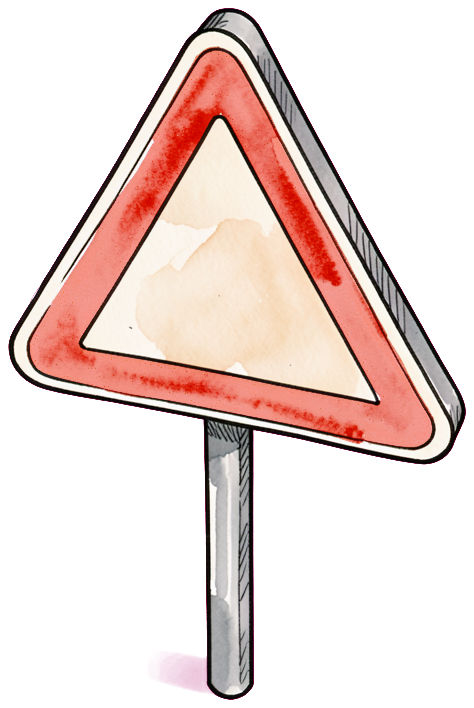
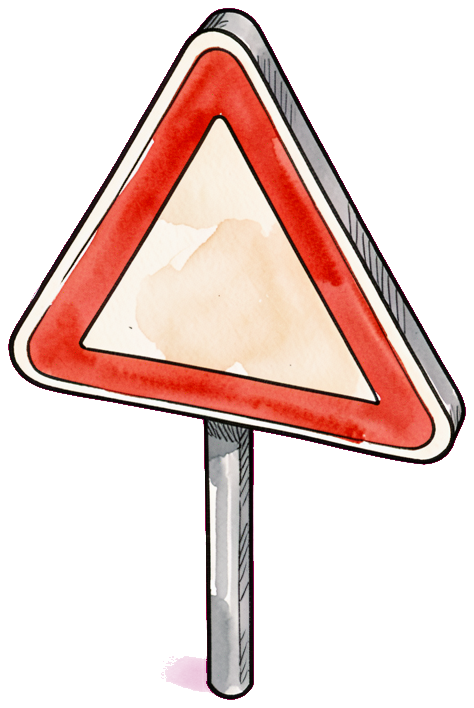
feat(driving): flatbed front-3/4 views, red/blue tractors, solid sign faces
- pickup + box truck now have front-3/4 'face' views for oncoming traffic
  (claymation, cab leading); their old top-down sprites become the -rear
  (same-direction) views. Wired via the front/rear split + preload.
- tractor now spawns in green, red or blue (free recolour of the green
  sprite via a brightness ramp; front + rear each).
- solidified the speed + warning sign faces so the green verge no longer
  shows through them.

Changed region(s): [[0.0591, 0.0621, 0.9156, 0.6525], [0.3249, 0.9322, 0.3544, 0.9633]]

diff --git a/apps/game/src/scenes/PtvDriveScene.ts b/apps/game/src/scenes/PtvDriveScene.ts
@@ -46,7 +46,7 @@ const TRAFFIC_SPRITE_KEYS: Record<TrafficKind, string[]> = {
   car: ['vehicle-topdown-car-red', 'vehicle-topdown-car-blue', 'vehicle-topdown-car-yellow'],
   pickup: ['vehicle-topdown-pickup'],
   truck: ['vehicle-topdown-truck'],
-  tractor: ['vehicle-topdown-tractor'],
+  tractor: ['vehicle-topdown-tractor', 'vehicle-topdown-tractor-red', 'vehicle-topdown-tractor-blue'],
   motorbike: ['vehicle-topdown-motorbike'],
   emergency: ['vehicle-topdown-ambulance'],
   bus: ['vehicle-topdown-bus'],
@@ -289,7 +289,7 @@ export class PtvDriveScene extends Phaser.Scene {
     tryImg('vehicle-topdown-henry', 'vehicle-topdown-henry.png');
     tryImg('site-arc-building', 'site-arc-building.png');
     tryImg('site-gravel', 'site-gravel.png');
-    for (const n of ['car-red', 'car-blue', 'car-yellow', 'pickup', 'truck', 'tractor', 'motorbike', 'ambulance', 'bus', 'binlorry', 'trikey', 'bea', 'big-tilly', 'spark']) {
+    for (const n of ['car-red', 'car-blue', 'car-yellow', 'pickup', 'truck', 'tractor', 'tractor-red', 'tractor-blue', 'motorbike', 'ambulance', 'bus', 'binlorry', 'trikey', 'bea', 'big-tilly', 'spark']) {
       tryImg(`vehicle-topdown-${n}`, `vehicle-topdown-${n}.png`);
     }
     for (const n of ['empty', '1', '2', '3', '4', '5']) {
@@ -297,7 +297,7 @@ export class PtvDriveScene extends Phaser.Scene {
     }
     // Rear ("driving away") views for the front-heavy vehicles. Missing files
     // fail softly, so this list can run ahead of the art being rendered.
-    for (const n of ['henry', 'car-red', 'car-blue', 'car-yellow', 'tractor', 'ambulance', 'bus', 'trikey', 'big-tilly']) {
+    for (const n of ['henry', 'car-red', 'car-blue', 'car-yellow', 'tractor', 'tractor-red', 'tractor-blue', 'ambulance', 'bus', 'trikey', 'big-tilly', 'pickup', 'truck']) {
       tryImg(`vehicle-topdown-${n}-rear`, `vehicle-topdown-${n}-rear.png`);
     }
     for (const n of [...DECOR_KINDS, 'speed-camera']) {
